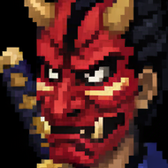
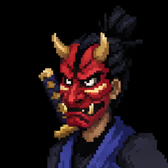
UI 打磨 R7: 二轮反馈 5 修 + 成组立绘配对重生成(待拍板 G)
- 标题菜单: JP 与 EN middle 基线差修正(日语上提 3px 光学居中)
- HUD 头像: 切片拉远至脸占 ~58%+头顶留白, 帽檐/鬼角完整入框
- 选人屏: 删称号白色小字行, 只留 EN·JP 名牌+TYPE+数值
- 公告横带: 设为默认并装饰化(渐变漆底/双金线/朱线/两端家纹+金菱),
  文字基线重算至带正中
- 立绘成组根治: 确认源图构图差异裁不平 → gen-kit8 双人同图强制同比例,
  3 候选(G1-G3)入审阅页待拍板, 选定后四处头像统一换新
- audit-r6.html 顶部新增 R7 状态区

diff --git a/js/ui.js b/js/ui.js
@@ -503,15 +503,40 @@ const UI = {
   // 'band' cinematic full-width lacquer band, 'plaque' wooden board
   annBack(ctx, cx, cy, w, mainSize) {
     if (this.ann === 'band') {
-      const h = mainSize + 38;
-      ctx.fillStyle = 'rgba(10,7,6,0.88)';
-      ctx.fillRect(0, cy - h / 2, 1024, h);
+      // ornamented lacquer band: gradient body, double gold + red hairlines,
+      // kamon crest medallions flanking, corner notches
+      const h = mainSize + 46, top = cy - h / 2;
+      const gr = ctx.createLinearGradient(0, top, 0, top + h);
+      gr.addColorStop(0, 'rgba(18,12,9,0.94)');
+      gr.addColorStop(0.5, 'rgba(8,5,4,0.94)');
+      gr.addColorStop(1, 'rgba(18,12,9,0.94)');
+      ctx.fillStyle = gr;
+      ctx.fillRect(0, top, 1024, h);
+      ctx.fillStyle = '#c9a24b';
+      ctx.fillRect(0, top, 1024, 2);
+      ctx.fillRect(0, top + h - 2, 1024, 2);
       ctx.fillStyle = '#8a6a2f';
-      ctx.fillRect(0, cy - h / 2, 1024, 2);
-      ctx.fillRect(0, cy + h / 2 - 2, 1024, 2);
-      ctx.fillStyle = 'rgba(179,43,32,0.8)';
-      ctx.fillRect(0, cy - h / 2 + 3, 1024, 1);
-      ctx.fillRect(0, cy + h / 2 - 4, 1024, 1);
+      ctx.fillRect(0, top + 4, 1024, 1);
+      ctx.fillRect(0, top + h - 5, 1024, 1);
+      ctx.fillStyle = 'rgba(179,43,32,0.85)';
+      ctx.fillRect(0, top + 6, 1024, 1);
+      ctx.fillRect(0, top + h - 7, 1024, 1);
+      const M = this.ua.pipmon;
+      if (M) {
+        const d = Math.min(38, h - 20), mh = d * M.h / M.w;
+        ctx.globalAlpha = 0.92;
+        ctx.drawImage(M.cv, 76 - d / 2, cy - mh / 2, d, mh);
+        ctx.drawImage(M.cv, 948 - d / 2, cy - mh / 2, d, mh);
+        ctx.globalAlpha = 1;
+        // small gold diamonds inside the crests
+        for (const nx of [136, 888]) {
+          ctx.save();
+          ctx.translate(nx, cy); ctx.rotate(Math.PI / 4);
+          ctx.fillStyle = '#c9a24b'; ctx.fillRect(-4, -4, 8, 8);
+          ctx.fillStyle = '#5a1210'; ctx.fillRect(-2, -2, 4, 4);
+          ctx.restore();
+        }
+      }
       return;
     }
     if (this.ann === 'plaque') {
@@ -745,7 +770,9 @@ const UI = {
       this.pixText(ctx, en, 512 - total / 2, cyRow, {
         size: 16, baseline: 'middle', color: sel ? '#ffe27a' : (MP ? '#b3a68d' : '#9aa3bd'), outline: sel,
       });
-      this.pixText(ctx, jp, 512 - total / 2 + enW + gap, cyRow, {
+      // JP glyphs in FusionPixelJA sit lower than PressStart at the same
+      // middle-baseline — lift 3px so both scripts share the optical center
+      this.pixText(ctx, jp, 512 - total / 2 + enW + gap, cyRow - 3, {
         size: 16, baseline: 'middle', color: sel ? '#ffc531' : '#8a6a2f', outline: sel,
       });
     });
@@ -889,12 +916,11 @@ const UI = {
       const NP = this.ua.nameplate;
       if (NP) ctx.drawImage(NP.cv, x + 44, 328, 232, 232 * NP.h / NP.w);
       // name = EN + JP on one plate-centered line (policy: names bilingual);
-      // attributes below stay English-only
+      // no epithet small-print below — just name, type and stats
       this.pixText(ctx, `${c.name} · ${c.cn}`, x + 160, 350, { size: 16, align: 'center', color: hovered || chosen ? c.theme : '#c9bfa8', outline: true, maxW: 214 });
-      this.pixText(ctx, c.title, x + 160, 376, { size: 13, align: 'center', color: '#efe6d5' });
-      this.pixText(ctx, `${c.type} TYPE`, x + 160, 393, { size: 10, align: 'center', color: '#9a8f78', spacing: 2 });
-      this.statBar(ctx, x + 66, 406, 'POW', c.stats.pow, c.theme);
-      this.statBar(ctx, x + 66, 424, 'SPD', c.stats.spd, c.theme);
+      this.pixText(ctx, `${c.type} TYPE`, x + 160, 381, { size: 10, align: 'center', color: '#9a8f78', spacing: 2 });
+      this.statBar(ctx, x + 66, 398, 'POW', c.stats.pow, c.theme);
+      this.statBar(ctx, x + 66, 418, 'SPD', c.stats.spd, c.theme);
       if (hovered && G.tick % 30 < 20) {
         this.pixText(ctx, '▼', x + 160, 112, { size: 16, align: 'center', color: '#ffc531' });
       }
@@ -951,8 +977,9 @@ const UI = {
     this.drawBust(ctx, winner.c.id, 384, 246, 256, 190, false);
 
     const RB = this.ua.announce;
-    if (RB) this.annBack(ctx, 512, 114, 640, 46); // anchored on VICTORY's visual center
-    this.pixText(ctx, playerWon ? 'VICTORY' : 'DEFEAT', 512, 130, {
+    if (RB || this.ann === 'band') this.annBack(ctx, 512, 114, 640, 46);
+    // baseline = band center + 0.40em puts the cap glyphs dead center of the band
+    this.pixText(ctx, playerWon ? 'VICTORY' : 'DEFEAT', 512, 132, {
       size: 46, align: 'center', color: playerWon ? '#ffc531' : '#f4ead6', outline: true, shadow: 6, spacing: 6,
     });
     this.pixText(ctx, playerWon ? '勝利' : '敗北', 512, RB ? 205 : 172, { size: 22, align: 'center', color: '#f4f1e8', outline: true });
@@ -1041,8 +1068,9 @@ const UI = {
       await Promise.race([document.fonts.load('90px KouzanBrush'), new Promise(r => setTimeout(r, 2500))]);
       return true;
     };
-    // announcement-backdrop style preview (?ann=band|plaque|ink2; default ink)
-    this.ann = ['band', 'plaque', 'ink2'].includes(q.get('ann')) ? q.get('ann') : 'ink';
+    // announcement backdrop: DEFAULT = ornamented band (Eric's pick);
+    // ?ann=ink|plaque|ink2 to compare
+    this.ann = ['ink', 'band', 'plaque', 'ink2'].includes(q.get('ann')) ? q.get('ann') : 'band';
     if (this.ann === 'ink2') jobs.announce = () => this._procSimple('announce-brush-slim.png').then(t => this._inkCentroid(t));
     // select-screen dedicated background preview (?selbg=moon)
     this.selbg = q.get('selbg') === 'moon';

diff --git a/assets/ui-lab/audit-r6.html b/assets/ui-lab/audit-r6.html
@@ -32,6 +32,33 @@
   <div class="sub">上半部 = 你的 8 条反馈（能直接做的已实装并附截图验证）；下半部 = Fable 自检（平庸点 / 精品机会 / 体验）。最底部是「拍板清单」——你逐项回复编号即可，我收到后直接实装。所有截图为真实运行画面。</div>
 </header>
 
+<section style="background:#1e1610">
+<h2>⓪ R7 更新 — 你的第二轮 6 条（最新）</h2>
+<table>
+<tr><th>#</th><th>问题</th><th>状态</th><th>说明</th></tr>
+<tr><td>1</td><td>标题菜单日语贴底</td><td class="done">✅ 已修</td><td>FusionPixelJA 与 PressStart 的 middle 基线不一致，日语字上提 3px 对齐光学中心</td></tr>
+<tr><td>2+4</td><td>选人立绘占比不成组</td><td class="pick">🔲 待拍板 G</td><td>确认是源图构图差异（剣二窄幅留白 vs 隼人宽帽满幅），裁切调不平 → 按你指示<b>重新生成：两人画进同一张图强制同比例</b>，3 张候选见下方，选一张我拆分接入（选人/VS/结算/HUD 四处头像全部换新）</td></tr>
+<tr><td>3</td><td>HUD 头像太大没留白</td><td class="done">✅ 已修</td><td>切片拉远：脸占框 ~58%、头顶留白，斗笠帽檐/鬼角完整入框（见 s3 图）</td></tr>
+<tr><td>5</td><td>选人屏白色日语小字</td><td class="done">✅ 已删</td><td>称号行（豪剣の侍/疾影の忍）移除，只留「HAYATO · 隼人」名牌 + TYPE + 数值</td></tr>
+<tr><td>6</td><td>横带要装饰性 + 文字居中</td><td class="done">✅ 已修并设为默认</td><td>渐变漆底 + 双金线 + 朱线 + 两端家纹章与金菱缀 + 文字基线重算至正中（见 s4 图）</td></tr>
+</table>
+<div class="grid2">
+<div class="card"><div class="hd"><b>s1 · 标题（日语居中后）</b></div><img src="mockups/r7/s1-title.png"></div>
+<div class="card"><div class="hd"><b>s3 · HUD（头像留白后）</b></div><img src="mockups/r7/s3-hud.png"></div>
+<div class="card"><div class="hd"><b>s4 · 结算（装饰横带 + 文字正中）</b></div><img src="mockups/r7/s4-result.png"></div>
+<div class="card"><div class="hd"><b>s2 · 选人（删称号小字后）</b></div><img src="mockups/r7/s2-select.png"></div>
+</div>
+
+<h2>拍板项 G — 成组立绘 3 选 1（同图共生，比例天然一致）</h2>
+<div class="sub" style="padding-bottom:6px">选定后我拆分为独立立绘，一次性替换 选人 / VS / 结算 / HUD 四处头像。我推荐 <b>G3</b>（头位最齐、剪影量最对等）。</div>
+<div class="grid2">
+<div class="card"><div class="hd"><b>G1</b></div><img src="portrait-pair-a.png"></div>
+<div class="card"><div class="hd"><b>G2</b>（帽形最戏剧化）</div><img src="portrait-pair-b.png"></div>
+<div class="card"><div class="hd"><b>G3</b>（推荐：头位齐平最干净）</div><img src="portrait-pair-cc.png"></div>
+</div>
+<div class="sub" style="padding:6px 0 14px">连同上轮未回复的：B 防御冲击波(动 fighter.js)准/不准 · C 选人月夜背景用/不用 · D 屏幕过渡做/不做 · E 小提升(难度光标/logo微动/VS斜切)做/不做。例：回复「G3 B准 C用 D做 E全做」。</div>
+</section>
+
 <section>
 <h2>一、你的 8 条反馈 — 处理状态</h2>
 <table>

diff --git a/assets/ui-lab/gen-kit8.py b/assets/ui-lab/gen-kit8.py
@@ -1,0 +1,53 @@
+"""Round-8: regenerate the select busts AS A PAIR in one canvas — both refs
+passed in, model draws them side-by-side at identical zoom/head-size/shoulder
+mass, then we split. Fixes the inherent composition mismatch (kenji narrow
+with margins vs hayato wide-hat full-bleed)."""
+import json, base64, urllib.request, os, time
+
+KEY = os.environ['GEMINI_API_KEY']
+URL = f"https://generativelanguage.googleapis.com/v1beta/models/gemini-2.5-flash-image:generateContent?key={KEY}"
+
+def b64(p): return base64.b64encode(open(p, 'rb').read()).decode()
+
+PROMPT = (
+    "Draw a TWO-PANEL character-select portrait pair for a fighting game, one canvas split "
+    "into a left half and a right half, both panels painted by the same artist in the same "
+    "16-bit painterly pixel-art style.\n"
+    "LEFT panel: the cloaked swordsman from the FIRST reference image - keep his design 100%: "
+    "wide thin dark-plum lacquered disc hat tilted low, pale mask-like white face, narrow "
+    "glowing RED eyes, crimson scarf knotted at the neck, bone-grey robe.\n"
+    "RIGHT panel: the oni-masked ninja from the SECOND reference image - keep his design 100%: "
+    "red oni mask with gold horns, black spiky hair, indigo shinobi garb, blade on his back.\n"
+    "CRITICAL - the two portraits must be a perfectly MATCHED SET: identical zoom level, "
+    "identical head size, head centers at the same height, similar shoulder width and "
+    "silhouette mass, both head-and-shoulders busts with the same amount of breathing room "
+    "around them, each centered in its own half. Hayato's wide hat may be cropped equally on "
+    "both sides if needed. Both face slightly toward each other (left one faces right, right "
+    "one faces left). Flat near-black background (#0a0a0c) in both panels, a thin 4-pixel "
+    "black gap between panels, no text, no watermark, wide 2:1 composition."
+)
+
+os.chdir(os.path.dirname(os.path.abspath(__file__)))
+parts = [
+    {"text": PROMPT},
+    {"inline_data": {"mime_type": "image/png", "data": b64('portrait-hayato-bust.png')}},
+    {"inline_data": {"mime_type": "image/png", "data": b64('ref-kenji-bust.png')}},
+]
+body = json.dumps({"contents": [{"parts": parts}],
+                   "generationConfig": {"responseModalities": ["IMAGE"]}}).encode()
+for c in range(1, 4):
+    out = f"portrait-pair-c{c}.png"
+    if os.path.exists(out):
+        print('skip', out); continue
+    for attempt in range(3):
+        try:
+            req = urllib.request.Request(URL, data=body, headers={'Content-Type': 'application/json'})
+            d = json.load(urllib.request.urlopen(req, timeout=120))
+            img = next(p for p in d['candidates'][0]['content']['parts'] if 'inlineData' in p)
+            open(out, 'wb').write(base64.b64decode(img['inlineData']['data']))
+            print('OK', out); break
+        except Exception as e:
+            print('retry', out, str(e)[:120]); time.sleep(4)
+    else:
+        print('FAIL', out)
+print('DONE')
